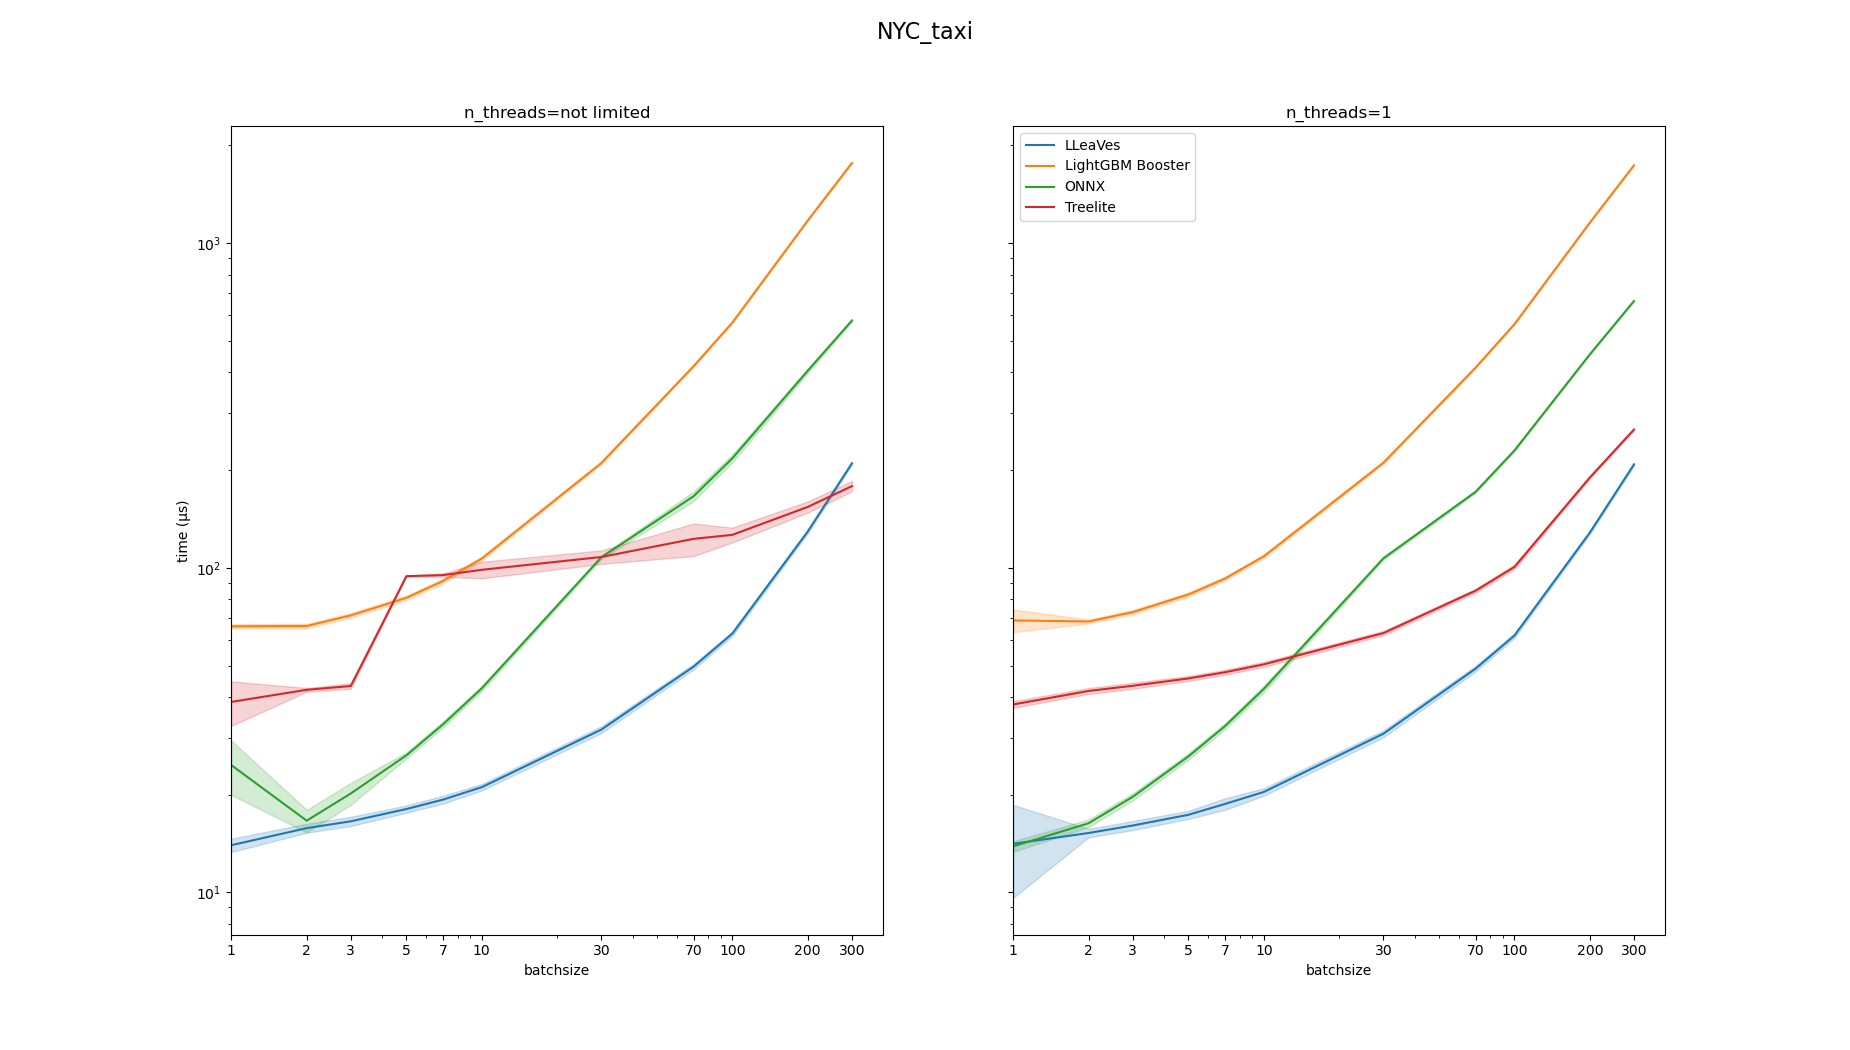
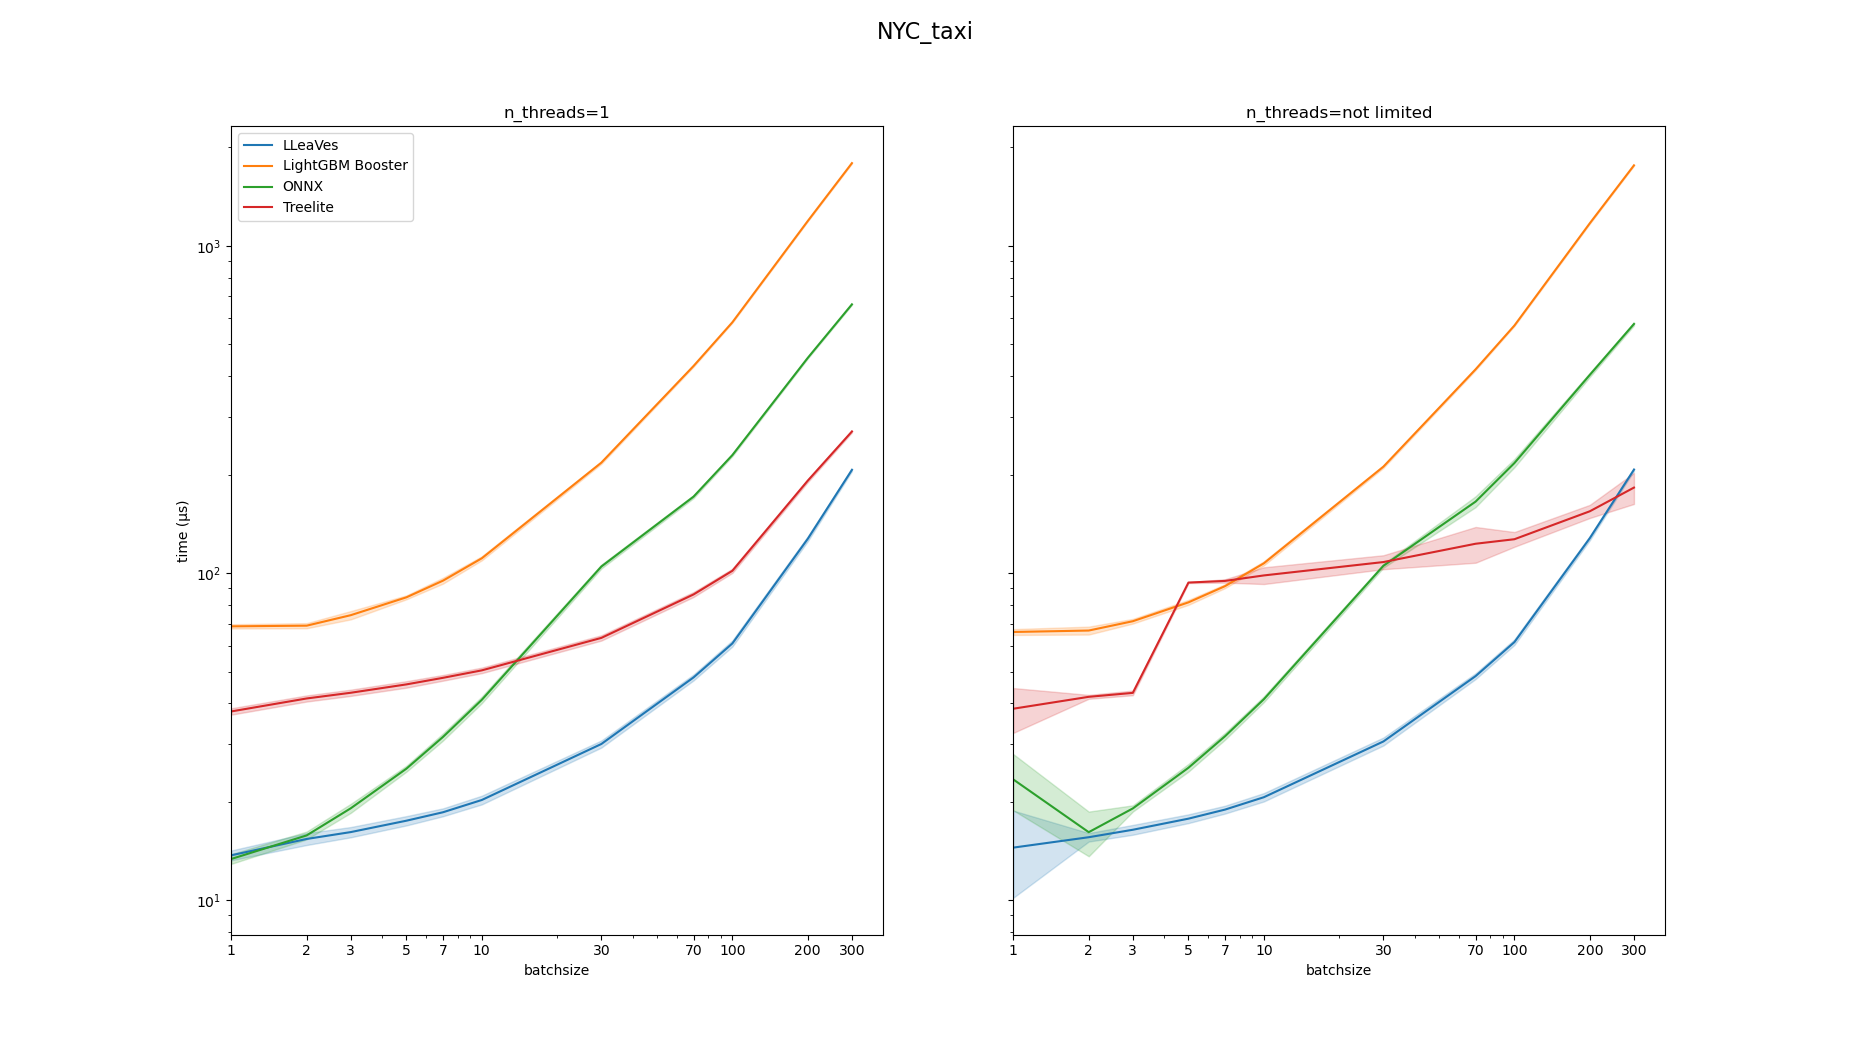
Uploaded new benchmark results

diff --git a/benchmarks/simple_timeit.py b/benchmarks/simple_timeit.py
@@ -70,7 +70,9 @@ class TreeliteModel(BenchmarkModel):
         )
 
     def predict(self, data, index, batchsize, n_threads):
-        return self.model.predict(treelite_runtime.DMatrix(data[i : i + batchsize]))
+        return self.model.predict(
+            treelite_runtime.DMatrix(data[index : index + batchsize])
+        )
 
 
 class TreeliteModelAnnotatedBranches(TreeliteModel):
@@ -137,7 +139,7 @@ def save_plots(results_full, title, n_threads, batchsizes):
                     ci="sd",
                     data=results_full[key],
                     ax=axs[count],
-                    label=key.split("_")[1] if count == 1 else None,
+                    label=key.split("_")[1] if count == 0 else None,
                 )
         axs[count].set(
             xscale="log",
@@ -160,6 +162,40 @@ NYC_used_columns = [
     "passenger_count",
 ]
 
+
+def run_benchmark(model_files, np_data, model_classes, threadcount, batchsizes):
+    for model_file, data in zip(model_files, np_data):
+        print(model_file, "\n")
+        results_full = {}
+        for n_threads in threadcount:
+            for model_class in model_classes:
+                if model_file == model_file_airline and model_class == ONNXModel:
+                    # ONNX doesn't like the categorical model, don't know why
+                    continue
+
+                model = model_class(model_file)
+                results = {"time (μs)": [], "batchsize": []}
+                results_full[f"{n_threads}_{model}"] = results
+                model.setup(data, n_threads)
+                for batchsize in batchsizes:
+                    times = []
+                    for _ in range(100):
+                        start = time.perf_counter_ns()
+                        for _ in range(30):
+                            for i in range(50):
+                                model.predict(data, i, batchsize, n_threads)
+                        # calc per-batch times, in μs
+                        times.append(
+                            (time.perf_counter_ns() - start) / (30 * 50) / 1000
+                        )
+                    results["time (μs)"] += times
+                    results["batchsize"] += len(times) * [batchsize]
+                    print(
+                        f"{model} (Batchsize {batchsize}, nthread {n_threads}): {round(mean(times), 2)}μs ± {round(pstdev(times), 2)}μs"
+                    )
+        save_plots(results_full, model_file.split("/")[-2], threadcount, batchsizes)
+
+
 if __name__ == "__main__":
     df = pd.read_parquet(
         "data/yellow_tripdata_2016-01.parquet", columns=NYC_used_columns
@@ -172,41 +208,10 @@ if __name__ == "__main__":
     model_file_NYC = "../tests/models/NYC_taxi/model.txt"
     model_file_airline = "../tests/models/airline/model.txt"
 
-    batchsizes = [1, 2, 3, 5, 7, 10, 30, 70, 100, 200, 300]
-    model_classes = [
-        LGBMModel,
-        TreeliteModel,
-        ONNXModel,
-        LLVMModel,
-    ]
-    n_threads = [0, 1]
-    for model_file, data in [(model_file_airline, airline_X), (model_file_NYC, NYC_X)]:
-        print(model_file, "\n")
-        results_full = {}
-        for n_thread in n_threads:
-            for model_class in model_classes:
-                if model_file == model_file_airline and model_class == ONNXModel:
-                    # ONNX doesn't like the categorical model, don't know why
-                    continue
-
-                model = model_class(model_file)
-                results = {"time (μs)": [], "batchsize": []}
-                results_full[f"{n_thread}_{model}"] = results
-                model.setup(data, n_thread)
-                for batchsize in batchsizes:
-                    times = []
-                    for _ in range(100):
-                        start = time.perf_counter_ns()
-                        for _ in range(30):
-                            for i in range(50):
-                                model.predict(data, i, batchsize, n_thread)
-                        # calc per-batch times, in μs
-                        times.append(
-                            (time.perf_counter_ns() - start) / (30 * 50) / 1000
-                        )
-                    results["time (μs)"] += times
-                    results["batchsize"] += len(times) * [batchsize]
-                    print(
-                        f"{model} (Batchsize {batchsize}, nthread {n_thread}): {round(mean(times), 2)}μs ± {round(pstdev(times), 2)}μs"
-                    )
-        save_plots(results_full, model_file.split("/")[-2], n_threads, batchsizes)
+    run_benchmark(
+        model_files=[model_file_airline, model_file_NYC],
+        np_data=[airline_X, NYC_X],
+        model_classes=[LGBMModel, TreeliteModel, LLVMModel, ONNXModel],
+        threadcount=[1, 0],
+        batchsizes=[1, 2, 3, 5, 7, 10, 30, 70, 100, 200, 300],
+    )

diff --git a/README.md b/README.md
@@ -18,9 +18,11 @@ Some LightGBM features are not yet implemented in LLeaVes:
 ## Benchmarks
 [benchmark script](benchmarks/simple_timeit.py).
 LLeaVes has no support for MT so far and is running single-threaded mode only.
-#### Prediction on NYC-taxi (purely numerical features)
+#### NYC-taxi
+purely numerical features
 ![img](benchmarks/NYC_taxi.png)
-#### Prediction on Airlines dataset (purely categorical features)
+#### Airlines dataset
+Large categorical features
 ![img](benchmarks/airline.png)
 
 ## Development
